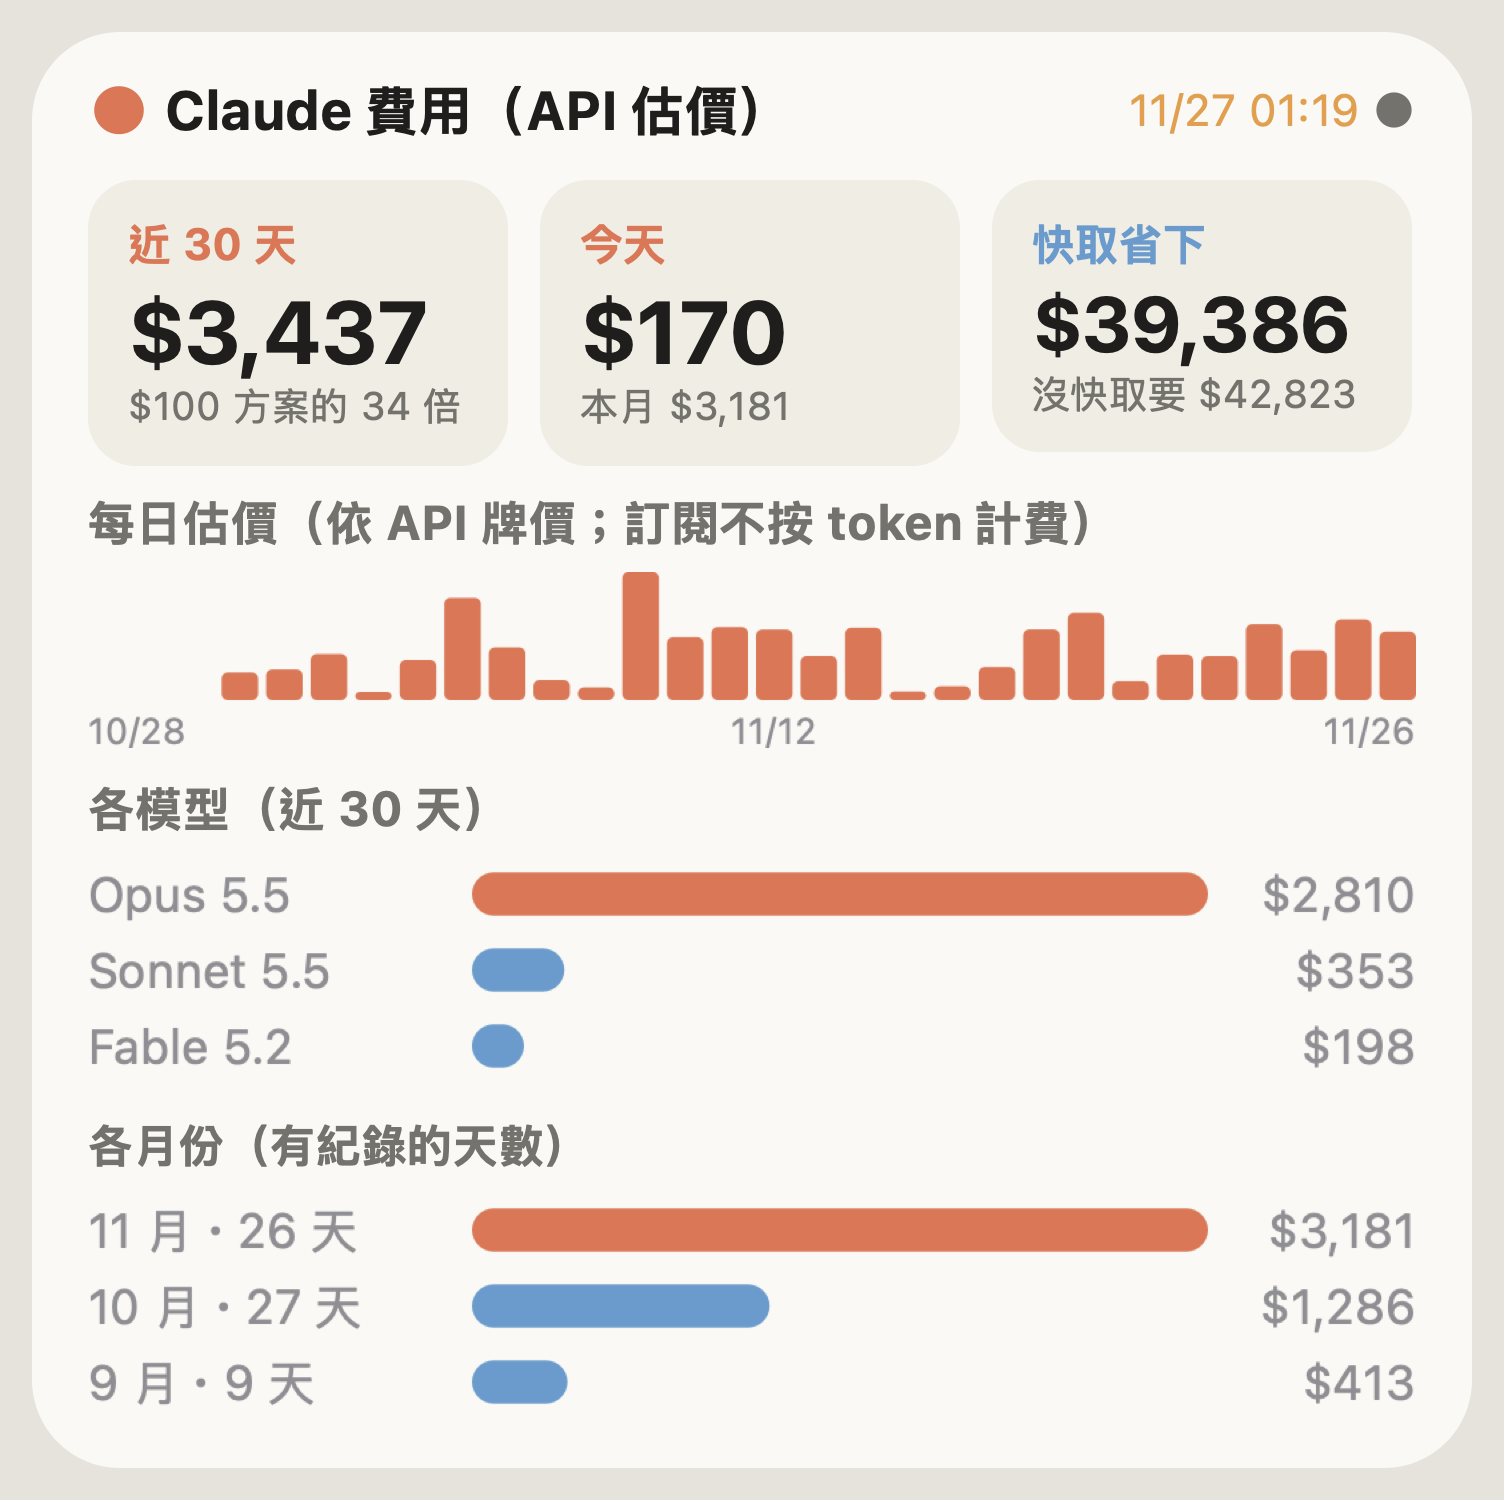
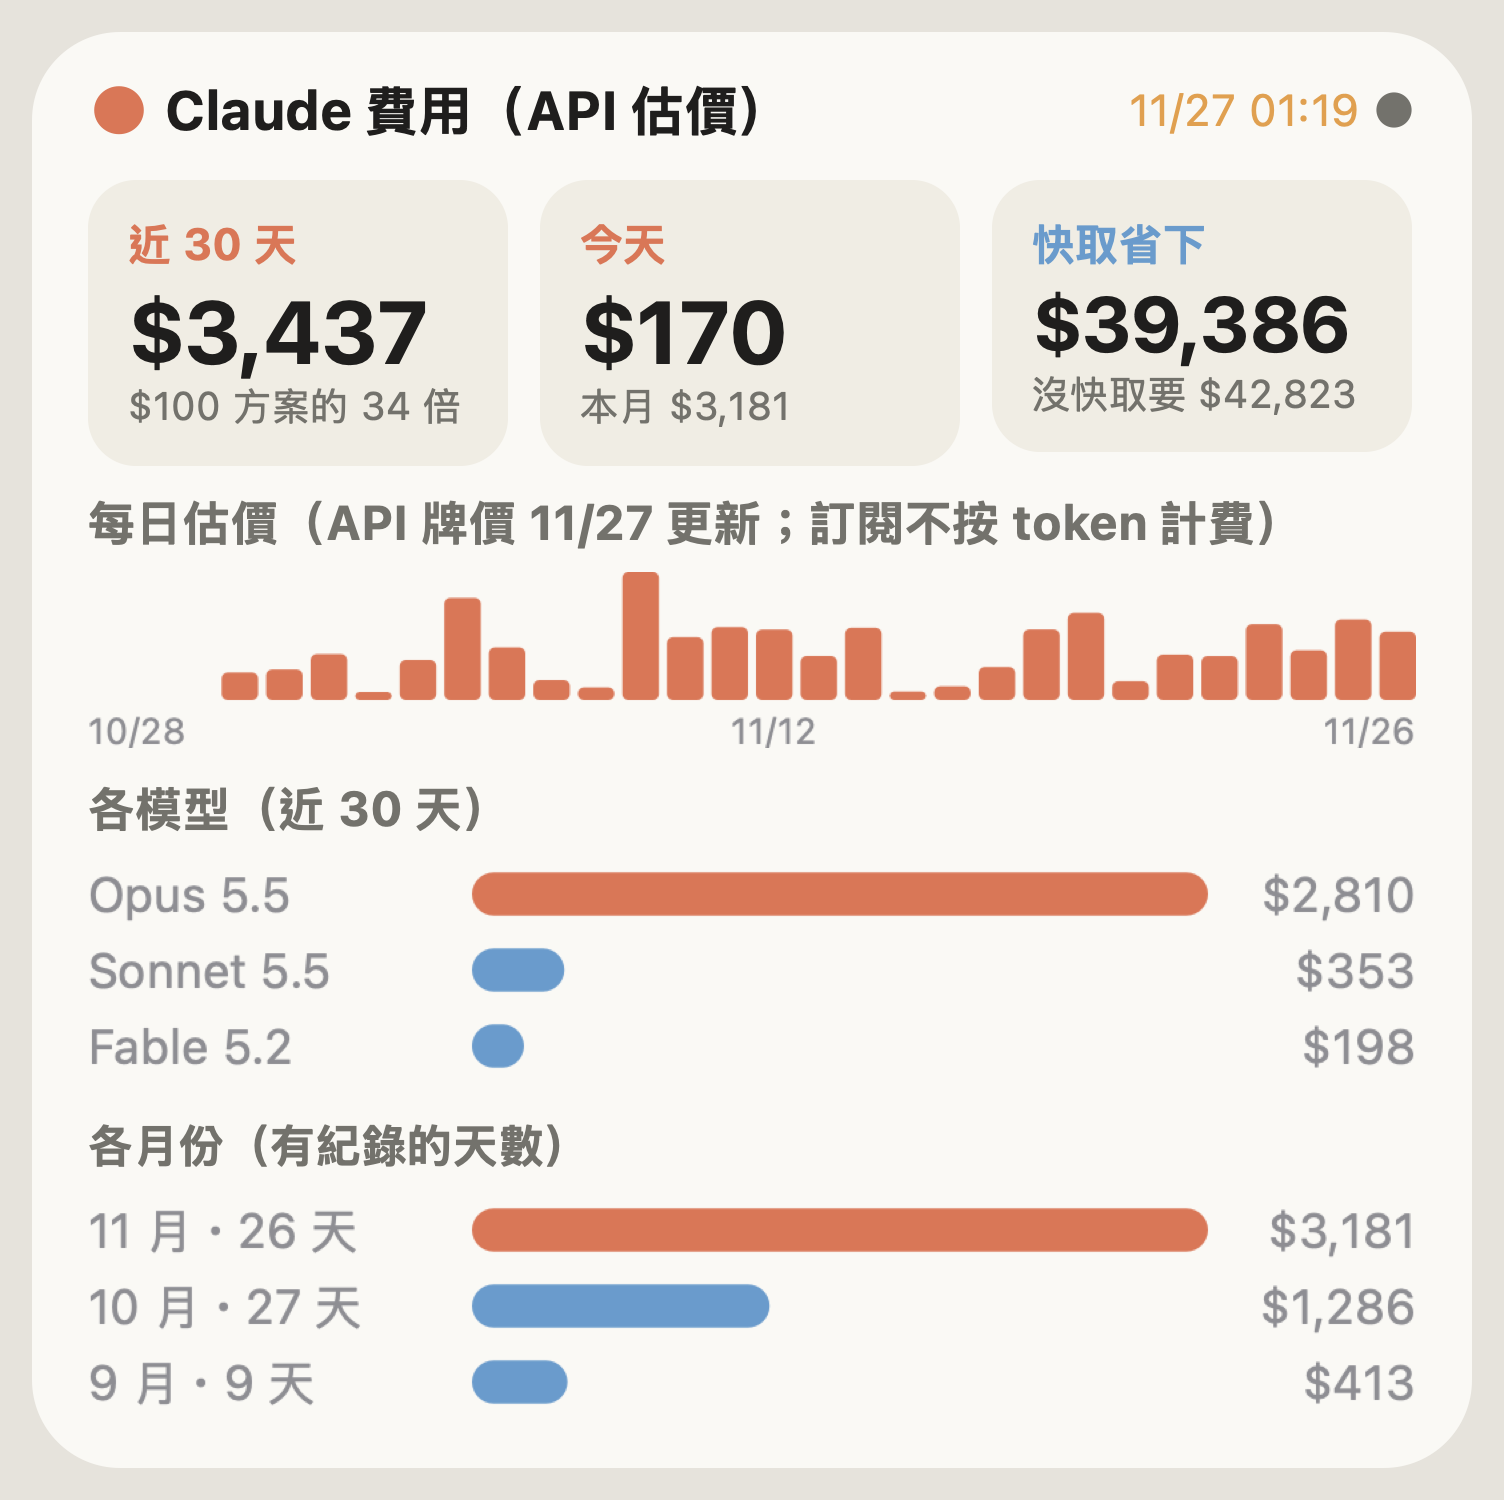
feat: fetch API prices from the official pricing page daily

Changed region(s): [[0.2188, 0.3373, 0.8438, 0.368]]

diff --git a/ios/Claude Token 用量.js b/ios/Claude Token 用量.js
@@ -26,7 +26,7 @@ const C = {
 };
 
 // ---------- 設定（存在 iCloud 的 Scriptable 資料夾，App 與小工具共用；在 App 裡執行腳本即可修改） ----------
-const VERSION = "2026.11.28";
+const VERSION = "2026.11.28.1";
 const REPO = "zeuikli/claude-usage-widget";
 const SETTINGS_PATH = fm.joinPath(fm.documentsDirectory(), "claude-usage-settings.json");
 const STATE_PATH = fm.joinPath(fm.documentsDirectory(), "claude-usage-state.json");
@@ -1307,6 +1307,9 @@ function costPage(w, d, family) {
   const today = c.daily[c.daily.length - 1][1];
   const month = (c.months || []).find(x => x[0] === c.daily[c.daily.length - 1][0].slice(0, 7));
   const vals = c.daily.map(x => x[1]);
+  // Prices come from Anthropic's pricing page (read by the Mac at most once a day), else the built-in table.
+  const priceDate = c.prices && c.prices.fetched ? md(c.prices.fetched.slice(0, 10)) : "";
+  const priceNote = priceDate ? "API 牌價 " + priceDate + " 更新" : "內建 API 牌價";
   if (family === "small") {
     header(w, d, "費用");
     w.addSpacer(6);
@@ -1316,7 +1319,7 @@ function costPage(w, d, family) {
     w.addSpacer();
     addImg(w, bars(vals, C.actual, 146, 22, vals.length - 1), 146, 22);
     w.addSpacer(4);
-    label(w, "今天 " + usd(today) + "・依 API 牌價", 9, C.dim);
+    label(w, "今天 " + usd(today) + "・" + priceNote, 9, C.dim);
     return;
   }
   const cw = contentWidth();
@@ -1332,12 +1335,12 @@ function costPage(w, d, family) {
     w.addSpacer(6);
     addImg(w, labeledBars(vals, C.actual, cw, 26, ticks), cw, 38);
     w.addSpacer(3);
-    label(w, "依 API 牌價換算；訂閱方案每月 $" + plan + "，不按 token 計費", 9, C.dim);
+    label(w, priceNote + "；訂閱方案每月 $" + plan + "，不按 token 計費", 9, C.dim);
     w.addSpacer();
     return;
   }
   w.addSpacer(12);
-  label(w, "每日估價（依 API 牌價；訂閱不按 token 計費）", 12, C.dim, "bold");
+  label(w, "每日估價（" + priceNote + "；訂閱不按 token 計費）", 12, C.dim, "bold");
   w.addSpacer(5);
   addImg(w, labeledBars(vals, C.actual, cw, 32, ticks), cw, 44);
   w.addSpacer(8);

diff --git a/mac/export_usage.py b/mac/export_usage.py
@@ -20,13 +20,86 @@ seen = set()
 # Extra detail for the widget, last 30 days only.
 start30 = (now - datetime.timedelta(days=29)).replace(hour=0, minute=0, second=0, microsecond=0)
 home_prefix = os.path.expanduser("~").replace("/", "-")
-# API list prices per million tokens (input, output) and cache-read multiplier, from the claude-api skill
-# (2026-11-03). Cache writes: 1.25x input for the 5-minute TTL, 2x for the 1-hour TTL.
+# Built-in fallback: API list prices per million tokens (input, output) and cache-read multiplier, from the
+# claude-api skill (2026-11-03). Cache writes: 1.25x input for the 5-minute TTL, 2x for the 1-hour TTL.
+# The prices actually used come from Anthropic's pricing page (see load_prices below) when it can be read.
 PRICES = {"claude-fable-5-2": (8, 40, 0.025), "claude-mythos-5-2": (8, 40, 0.025), "claude-fable-5-1": (10, 50, 0.025), "claude-fable-5": (10, 50, 0.1),
           "claude-opus-5-5": (4, 20, 0.05), "claude-opus-5": (5, 25, 0.1), "claude-opus-4-8": (5, 25, 0.1),
           "claude-opus-4-7": (5, 25, 0.1), "claude-opus-4-6": (5, 25, 0.1), "claude-sonnet-5-5": (2, 10, 0.05),
           "claude-sonnet-5": (2, 10, 0.1), "claude-sonnet-4-6": (3, 15, 0.1), "claude-haiku-5-5": (0.1, 0.5, 0.1),
           "claude-haiku-4-5": (1, 5, 0.1)}
+PRICE_URL = "https://platform.claude.com/docs/en/about-claude/pricing.md"
+PRICE_CACHE = os.path.join(os.path.dirname(os.path.abspath(__file__)), "api-prices.json")
+
+
+def parse_prices(md):
+    """The model table on the pricing page: model, input, 5m cache write, 1h cache write, cache hit, output ($/MTok).
+    Returns ({model id: [input, write 5m, write 1h, cache hit, output]}, {model id: long-prompt prices}, threshold)."""
+    part = md.split("## Model pricing", 1)
+    if len(part) < 2:
+        return {}, {}, None
+    base, long_, threshold = {}, {}, None
+    for line in part[1].split("\n## ", 1)[0].splitlines():
+        cells = [c.strip() for c in line.strip().strip("|").split("|")]
+        name = re.match(r"Claude ([A-Za-z]+) (\d+(?:\.\d+)?)\b", cells[0]) if len(cells) == 6 else None
+        if not name:
+            continue
+        vals = [re.search(r"\$([\d.,]+)\s*/\s*MTok", c) for c in cells[1:]]
+        if not all(vals):
+            continue
+        inp, w5, w1, hit, outp = (float(v.group(1).replace(",", "")) for v in vals)
+        if not (0 < hit <= inp <= w5 <= w1 and inp <= outp):
+            continue
+        mid = "claude-%s-%s" % (name.group(1).lower(), name.group(2).replace(".", "-"))
+        over = re.search(r"prompts over ([\d,]+) tokens", cells[0])
+        if over:
+            long_[mid], threshold = [inp, w5, w1, hit, outp], int(over.group(1).replace(",", ""))
+        else:
+            base[mid] = [inp, w5, w1, hit, outp]
+    return base, long_, threshold
+
+
+def load_prices():
+    """Prices per model as [input, write 5m, write 1h, cache hit, output]. The pricing page is read at most once a
+    day (once an hour after a failure) and kept in api-prices.json; the built-in table fills in models it lacks."""
+    try:
+        with open(PRICE_CACHE) as f:
+            cache = json.load(f)
+    except (OSError, ValueError):
+        cache = {}
+    def age(key):
+        try:
+            return (now - datetime.datetime.fromisoformat(cache[key])).total_seconds()
+        except (KeyError, TypeError, ValueError):
+            return float("inf")
+    if os.environ.get("USAGE_WIDGET_PRICE_FETCH", "1") != "0" and age("fetched") > 86400 and age("attempted") > 3600:
+        import urllib.request
+        cache["attempted"] = now.isoformat(timespec="seconds")
+        try:
+            req = urllib.request.Request(PRICE_URL, headers={"User-Agent": "claude-usage-widget"})
+            with urllib.request.urlopen(req, timeout=15) as r:
+                base, long_, threshold = parse_prices(r.read().decode("utf-8", "replace"))
+            if len(base) >= 5:
+                cache.update(fetched=cache["attempted"], source=PRICE_URL, prices=base, long=long_,
+                             long_threshold=threshold, error=None)
+            else:
+                cache["error"] = "the pricing table could not be read (%d models)" % len(base)
+        except Exception as e:  # offline, timeout, page moved: keep the last good prices
+            cache["error"] = str(e)[:200]
+        try:
+            with open(PRICE_CACHE + ".tmp", "w") as f:
+                json.dump(cache, f, indent=1)
+            os.replace(PRICE_CACHE + ".tmp", PRICE_CACHE)
+        except OSError:
+            pass
+    prices = {k: [i, i * 1.25, i * 2, i * r, o] for k, (i, o, r) in PRICES.items()}
+    prices.update(cache.get("prices") or {})
+    meta = {"source": "official" if cache.get("prices") else "builtin", "fetched": cache.get("fetched"),
+            "error": cache.get("error")}
+    return prices, cache.get("long") or {}, cache.get("long_threshold"), meta
+
+
+API_PRICES, LONG_PRICES, LONG_AT, PRICE_META = load_prices()
 hours = [[0, 0] for _ in range(24)]          # replies, output tokens by local hour
 weekdays = [0] * 7                           # replies by weekday (Mon=0)
 projects = defaultdict(lambda: [0, 0])       # tokens, replies
@@ -207,12 +280,15 @@ for path in glob.glob(root + "/**/*.jsonl", recursive=True):
                 apps[app] += v[0] + v[1]
                 if v[1] > longest[0]:
                     longest[:] = [v[1], t.date().isoformat()]
-                price = PRICES.get(m["model"])
+                price = API_PRICES.get(m["model"])
                 if price:
-                    pin, pout, read = price
+                    # Haiku 5.5 charges more for a request whose whole prompt (input + cache) is over the threshold.
+                    if m["model"] in LONG_PRICES and LONG_AT and v[0] + v[2] + v[3] > LONG_AT:
+                        price = LONG_PRICES[m["model"]]
+                    pin, pw5, pw1, phit, pout = price
                     w1h = int((u.get("cache_creation") or {}).get("ephemeral_1h_input_tokens") or 0)
                     w5m = max(0, v[2] - w1h)
-                    c = (v[0] * pin + v[1] * pout + w5m * pin * 1.25 + w1h * pin * 2 + v[3] * pin * read) / 1e6
+                    c = (v[0] * pin + v[1] * pout + w5m * pw5 + w1h * pw1 + v[3] * phit) / 1e6
                     cost[0] += c
                     cost_day[t.date().isoformat()] += c
                     cost_model[m["model"]] += c
@@ -468,18 +544,19 @@ if os.path.isdir(widget_dir):
     # Monthly API-price estimate from the CSV ledger (it outlives the transcripts). The ledger does not
     # split cache writes by TTL, so they are priced with the last 30 days' share of 1-hour writes.
     w_all = ins["write_1h"] + ins["write_5m"]
-    w_mult = 1.25 + 0.75 * (ins["write_1h"] / w_all if w_all else 0)
+    share_1h = ins["write_1h"] / w_all if w_all else 0
     months = defaultdict(lambda: [0.0, set()])
     for (day, model, _), r in rows.items():
-        price = PRICES.get(model)
+        price = API_PRICES.get(model)
         if price:
-            pin, pout, read = price
-            months[day[:7]][0] += (r[0] * pin + r[1] * pout + r[2] * pin * w_mult + r[3] * pin * read) / 1e6
+            pin, pw5, pw1, phit, pout = price
+            months[day[:7]][0] += (r[0] * pin + r[1] * pout + r[2] * (pw5 * (1 - share_1h) + pw1 * share_1h) + r[3] * phit) / 1e6
             months[day[:7]][1].add(day)
     summary["costs"] = {
         "daily": [[x["date"], round(cost_day.get(x["date"], 0), 2)] for x in daily],
         "models": [[k, round(v, 2)] for k, v in sorted(cost_model.items(), key=lambda kv: -kv[1])[:5]],
         "months": [[k, round(v[0], 2), len(v[1])] for k, v in sorted(months.items())[-6:]],
+        "prices": PRICE_META,
     }
     summary.update({
         "calendar": calendar, "best_streak": best,

diff --git a/CHANGELOG.md b/CHANGELOG.md
@@ -1,5 +1,16 @@
 # 更新紀錄
 
+## 2026.11.28.1
+
+- **API 牌價自動取得**：Mac 匯出每天最多讀一次官方定價頁 `platform.claude.com/docs/en/about-claude/pricing.md`，
+  解析模型價格表（輸入、5 分鐘／1 小時快取寫入、快取讀取、輸出，以實際金額計價，不再用倍數推算），存在 `api-prices.json`。
+  讀不到時沿用上次成功的價格（失敗後一小時才重試），從沒成功過才用內建表。`USAGE_WIDGET_PRICE_FETCH=0` 可關閉。
+- 依官方規則，Haiku 5.5 提示（輸入＋快取）超過 10 萬 token 的請求改用較高的價格；原本一律用低價，少算了這部分。
+- 費用頁註明牌價日期（「API 牌價 11/28 更新」）；匯出的 `costs.prices` 記錄來源、取得時間與最近一次錯誤。
+- 驗證：解析器對現行頁面讀出 21 個模型，內建表的 14 個模型價格全部一致；空頁面、缺段落、格式壞掉的儲存格、
+  不合理的價格順序都被拒絕。暫存資料夾實跑：正常網址取得官方價格；404 網址記錄錯誤並退回內建價格。
+  兩者差額全部來自 Haiku 5.5 長提示（近 30 天 $52 → $255）。
+
 ## 2026.11.28
 
 - **第十頁「費用」**：把近 30 天的 token 照 API 牌價換算成美元，和訂閱月費比較（「是 $100 方案的 34 倍」）。
